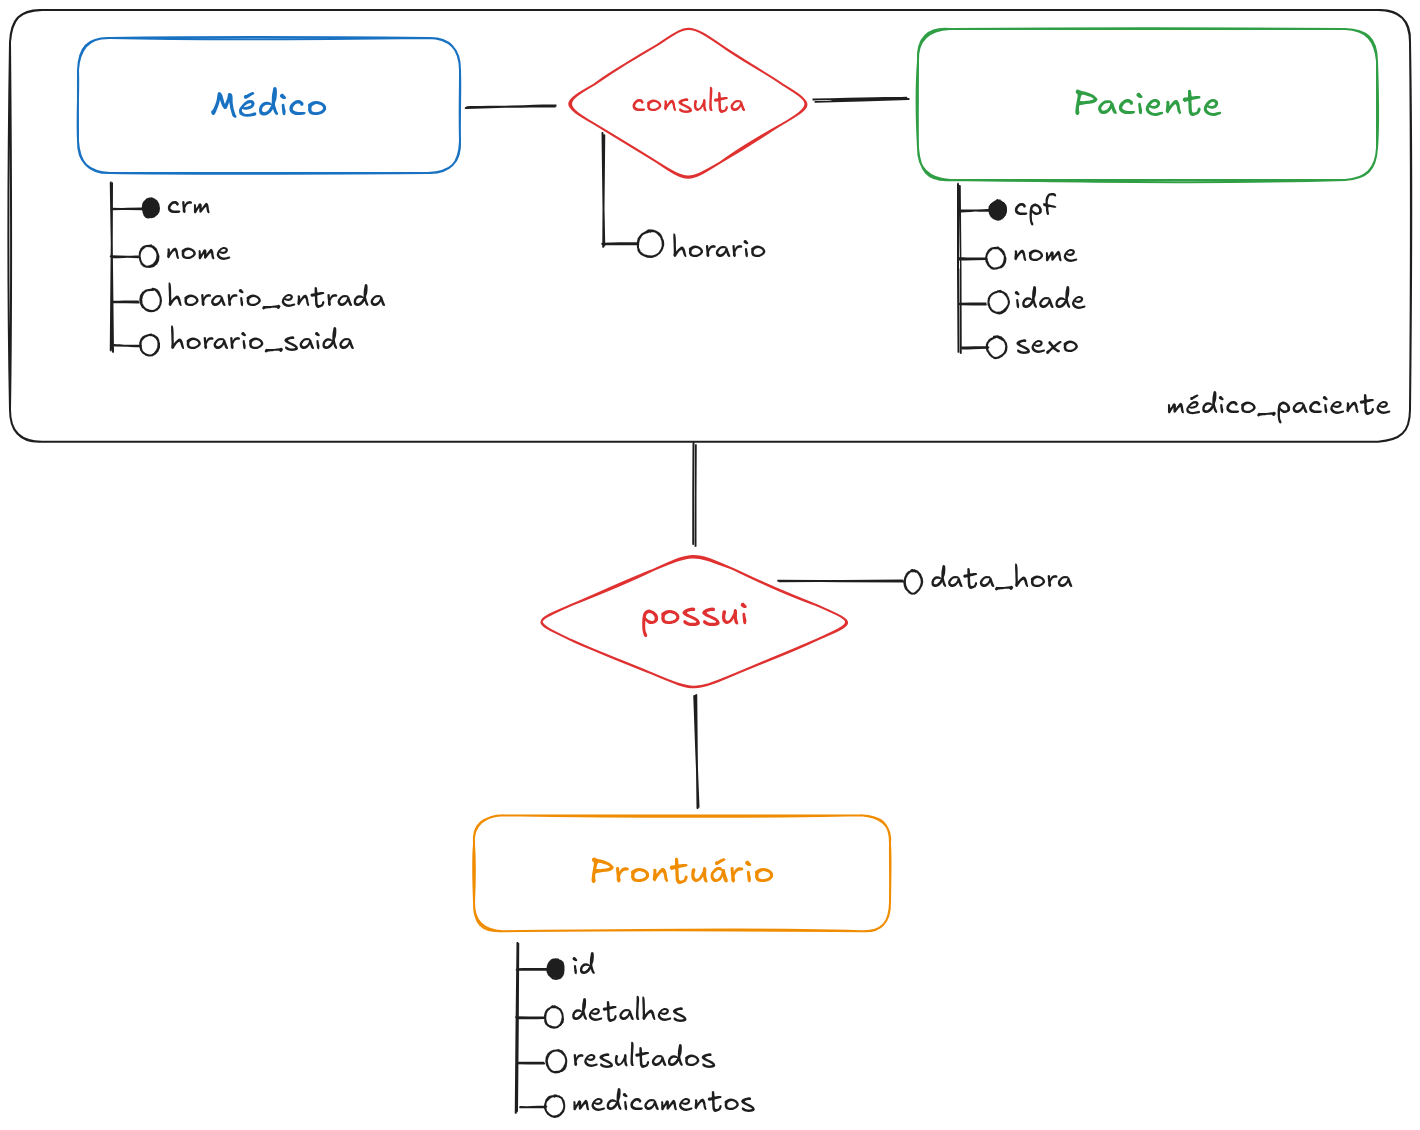
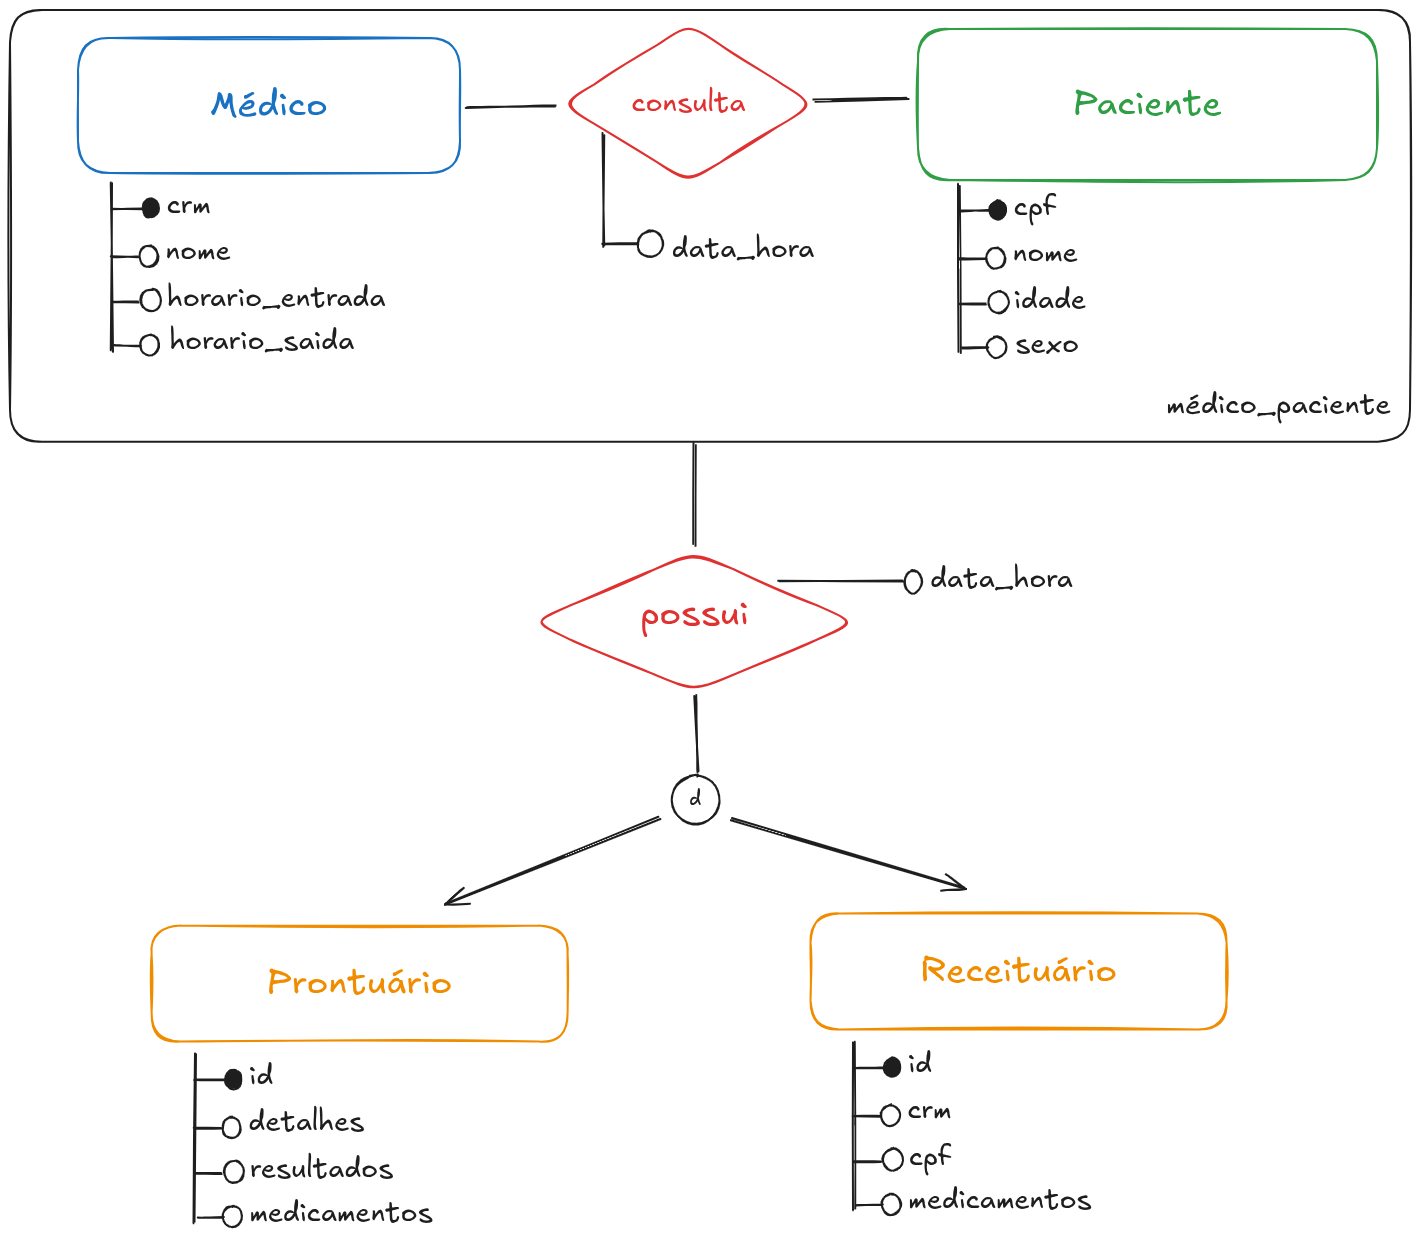
updating obsidian notes

diff --git a/obsidian/banco de dados.md b/obsidian/banco de dados.md
@@ -37,7 +37,7 @@ CREATE TABLE consulta (
     crm VARCHAR(20) NOT NULL,
     cpf VARCHAR(14) NOT NULL,
     data_horario TIMESTAMP NOT NULL,
-    PRIMARY KEY (crm, cpf, horario),
+    PRIMARY KEY (crm, cpf, data_horario),
     FOREIGN KEY (crm) REFERENCES medico(crm) ON DELETE CASCADE,
     FOREIGN KEY (cpf) REFERENCES paciente(cpf) ON DELETE CASCADE
 );
@@ -51,13 +51,40 @@ CREATE TABLE prontuario (
     crm VARCHAR(20) NOT NULL,
     cpf VARCHAR(14) NOT NULL,
     data_horario_consulta TIMESTAMP NOT NULL,
-    FOREIGN KEY (crm, cpf, horario_consulta) 
-        REFERENCES consulta(crm, cpf, horario)
+    FOREIGN KEY (crm, cpf, data_horario_consulta) 
+        REFERENCES consulta(crm, cpf, data_horario)
+        ON DELETE CASCADE
+);
+
+-- Tabela Receituário
+CREATE TABLE receituario (
+	id SERIAL PRIMARY KEY,
+	medicamentos TEXT,
+	crm VARCHAR(20) NOT NULL,
+    cpf VARCHAR(14) NOT NULL,
+    data_horario_consulta TIMESTAMP NOT NULL,
+    FOREIGN KEY (crm, cpf, data_horario_consulta) 
+        REFERENCES consulta(crm, cpf, data_horario)
         ON DELETE CASCADE
 );
 
 -- Índices para melhorar performance nas consultas frequentes
 CREATE INDEX idx_prontuario_paciente ON prontuario(cpf);
 CREATE INDEX idx_prontuario_medico ON prontuario(crm);
-CREATE INDEX idx_prontuario_data ON prontuario(horario_consulta);
 ```
+
+## comandos úteis
+
+| Comando            | Descrição                        |
+| ------------------ | -------------------------------- |
+| `\l`               | Lista todos os bancos de dados   |
+| `\c nome_do_banco` | Conecta a um banco específico    |
+| `\dt`              | Lista tabelas do banco atual     |
+| `\du`              | Lista usuários e suas permissões |
+| `\q`               | Sai do terminal `psql`           |
+|                    |                                  |
+```
+
+psql -h localhost -U medrecord -d medrecord_db -W
+```
+
